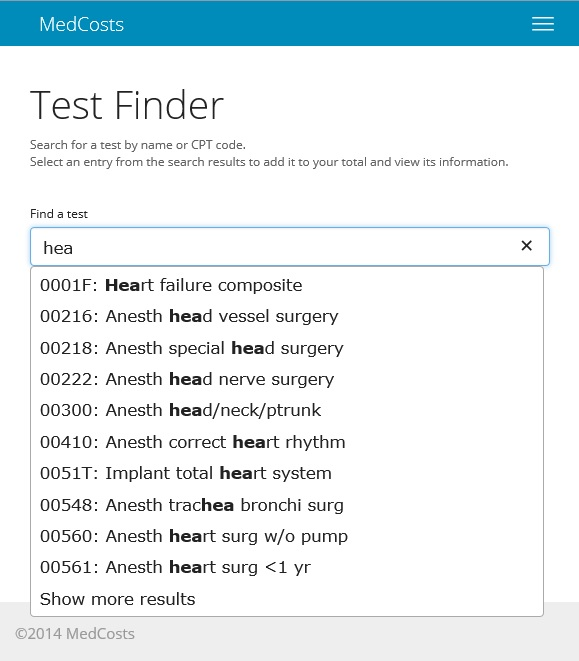
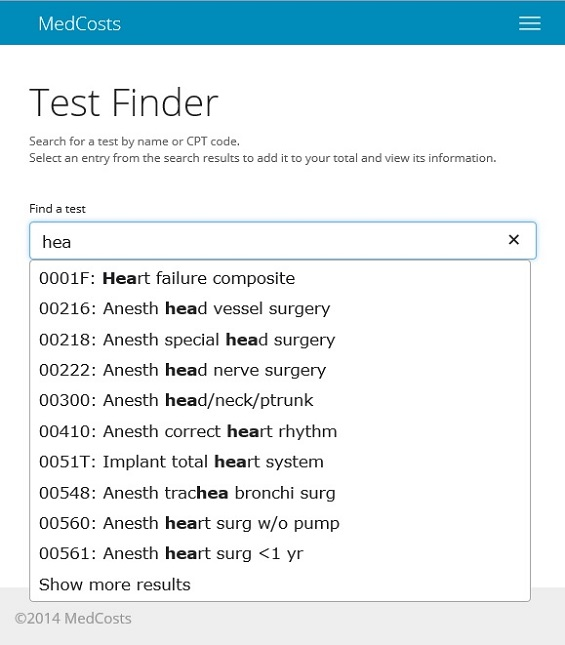
Iterating
Tweaking some things on the MedCosts page

diff --git a/medcosts.html b/medcosts.html
@@ -20,7 +20,8 @@
   <body>
       <div id="header">
         <nav><ul>
-          <li><a>MedCosts</a></li>
+          <li><a href="/index.html">Home</a></li>
+          <li><a href="/medcosts.html"><a>MedCosts</a></li>
           <li><a>miniJava Compiler</a></li>
           <li><a>CPU: Verilog</a></li>
         </ul></nav>
@@ -29,13 +30,21 @@
     <div class="wrapper">
 
       <section>
-
+        <section>
+        <div id="title">
+          <h1>MedCosts</h1>
+          <p></p>
+          <hr>
+          </span>
+        </div>
+        <div>
         <p><i>MedCosts</i> is a web application designed to assist medical professionals at UNC Hospitals.<br>
-          Believe it or not, doctors rarely know how much your medical procedures cost! Sometimes, patients want to know,
-          especially if they lack insurance coverage.<br>
+          Believe it or not, doctors rarely know how much your medical procedures cost! &nbsp;Sometimes, patients want to know,
+          especially if they lack insurance coverage.<br><br>
           <i>MedCosts</i> allows doctors to access this information wherever, whenever -- built as a mobile-first web application, 
           <i>MedCosts</i> emphasizes agility and ease of use. The app is packed in with tools to help doctors keep track of 
           the work they've done, and has a range of customizable setttings so users can quickly access the information related to their particular field.</p>
+        </div>
         <hr>
         <img src="screenshots/medcosts-search.jpg" style="height: 661; width: 579">
         <img src="screenshots/medcosts-rvu.jpg" style="height: 662; width: 565">

diff --git a/index.html b/index.html
@@ -20,6 +20,7 @@
   <body>
       <div id="header">
         <nav><ul>
+          <li><a href="/index.html">Home</a></li>
           <li><a href="/medcosts.html">MedCosts</a></li>
           <li><a>miniJava Compiler</a></li>
           <li><a>MIPS CPU</a></li>
